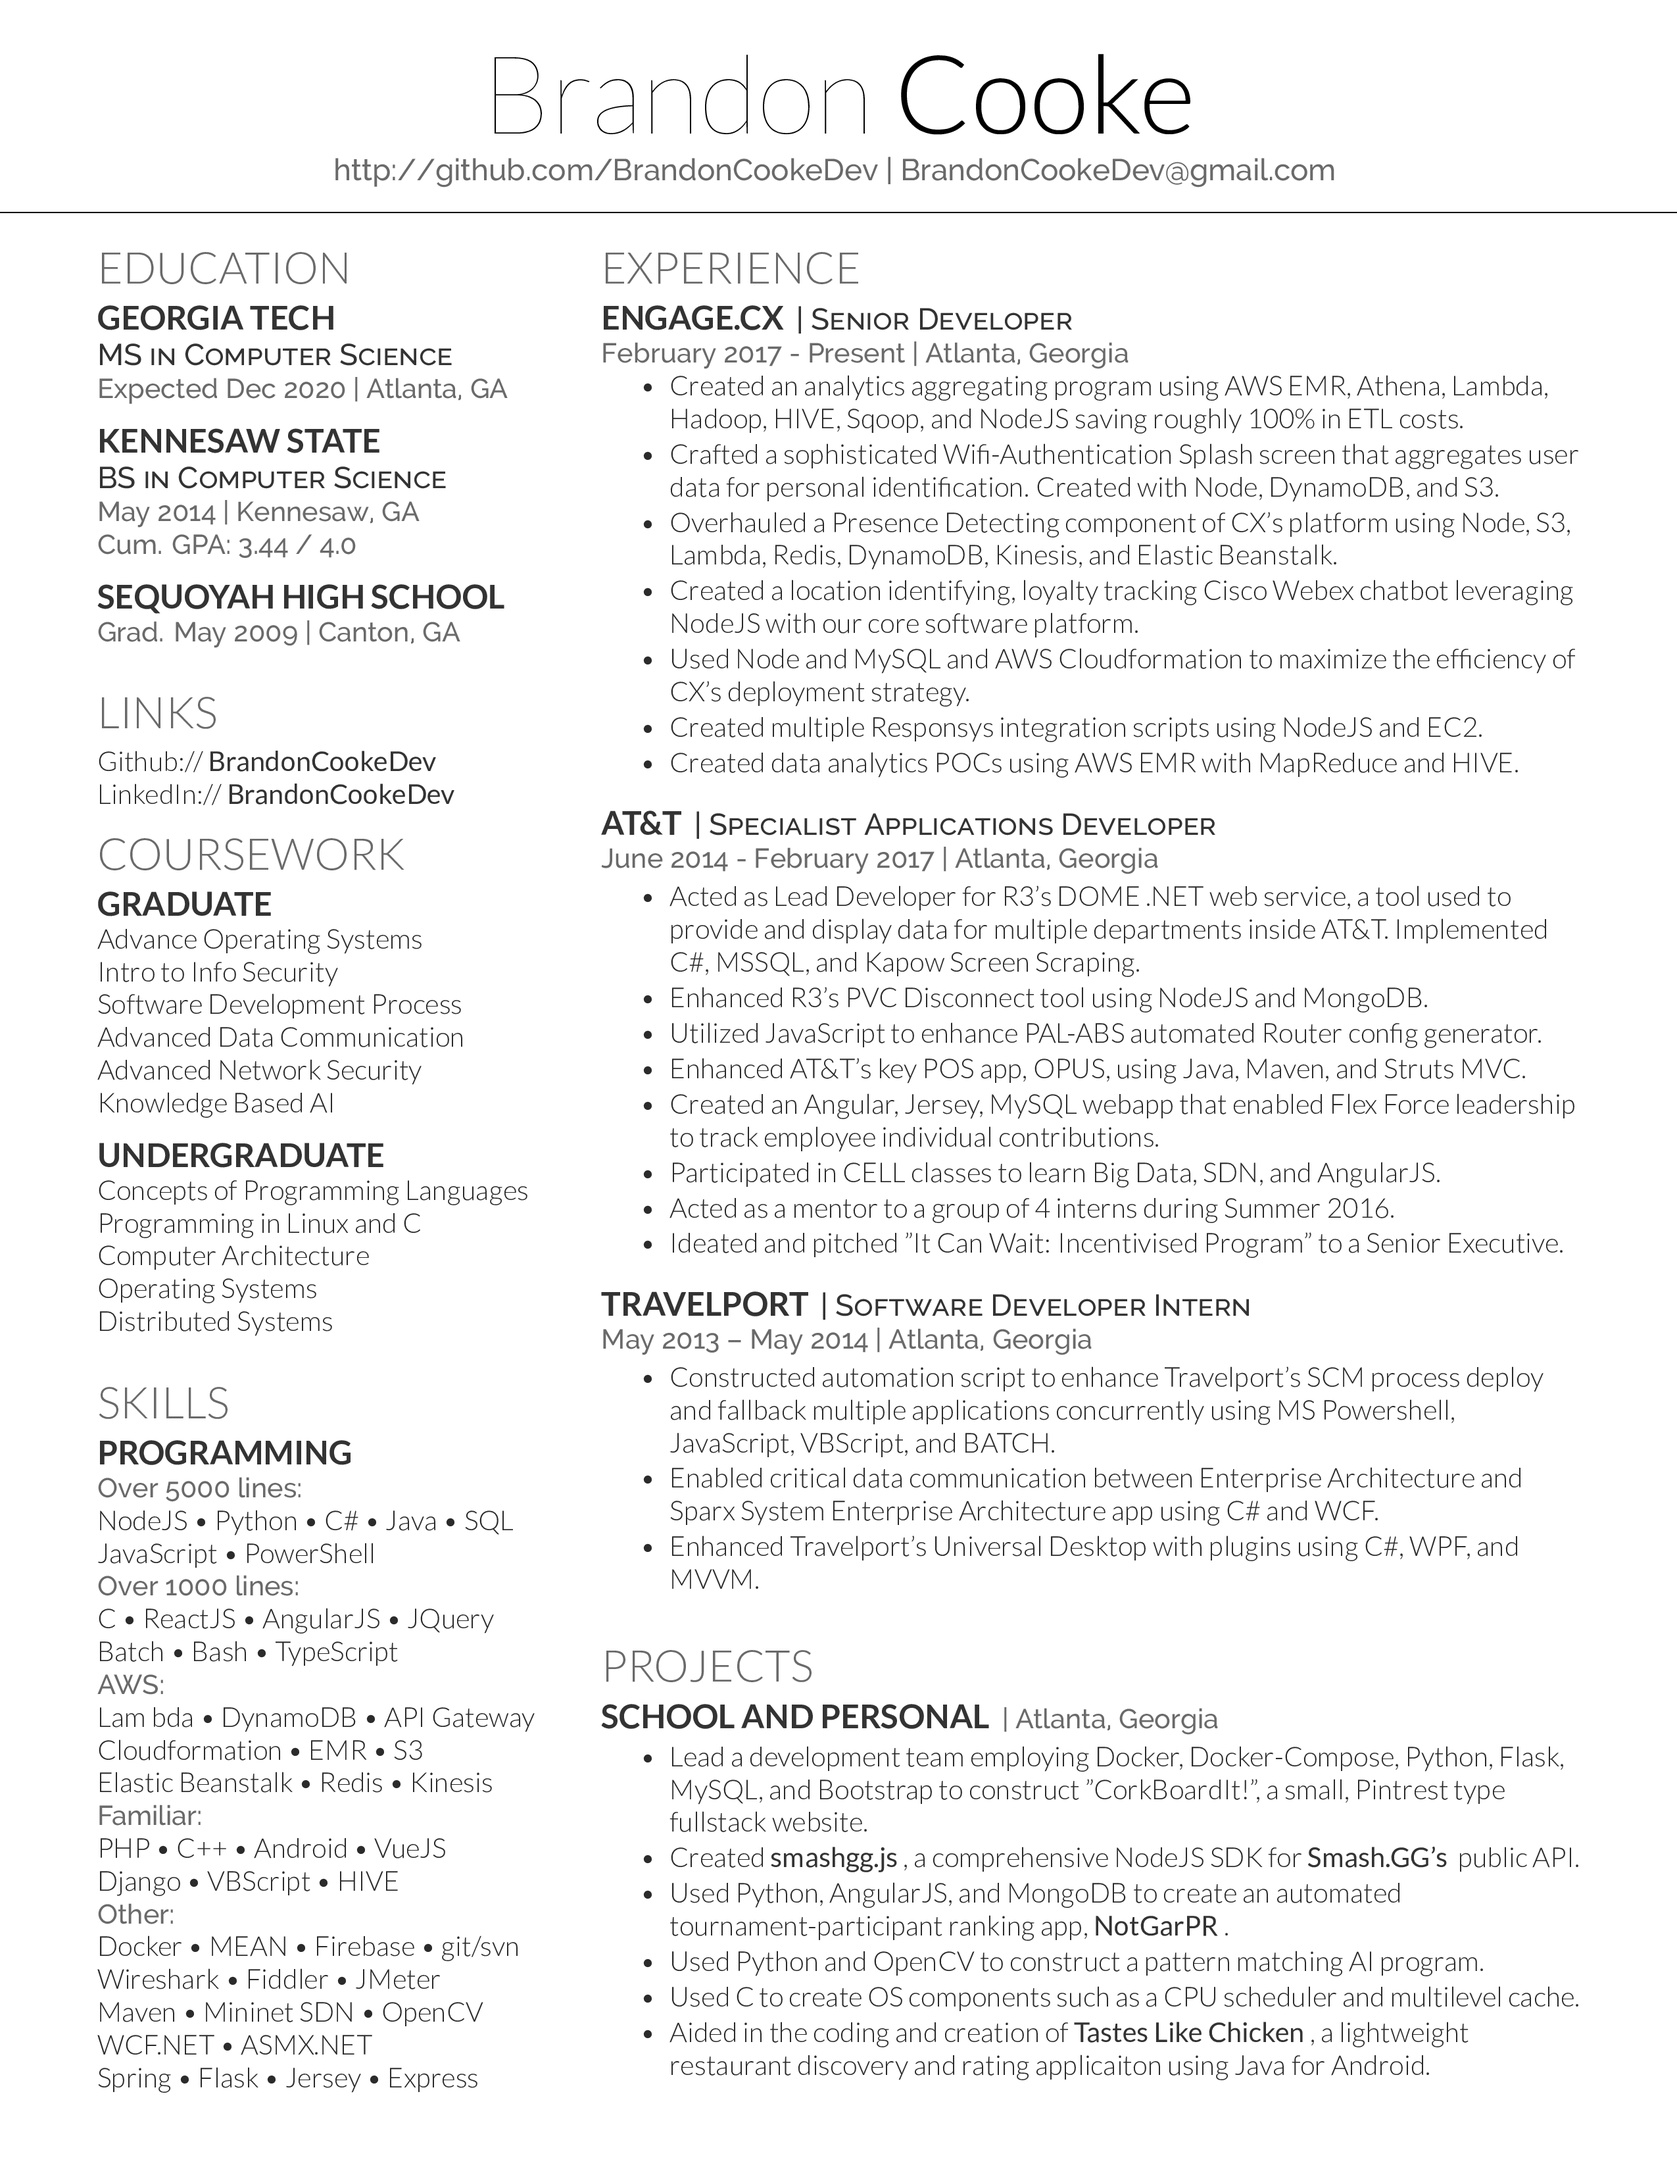
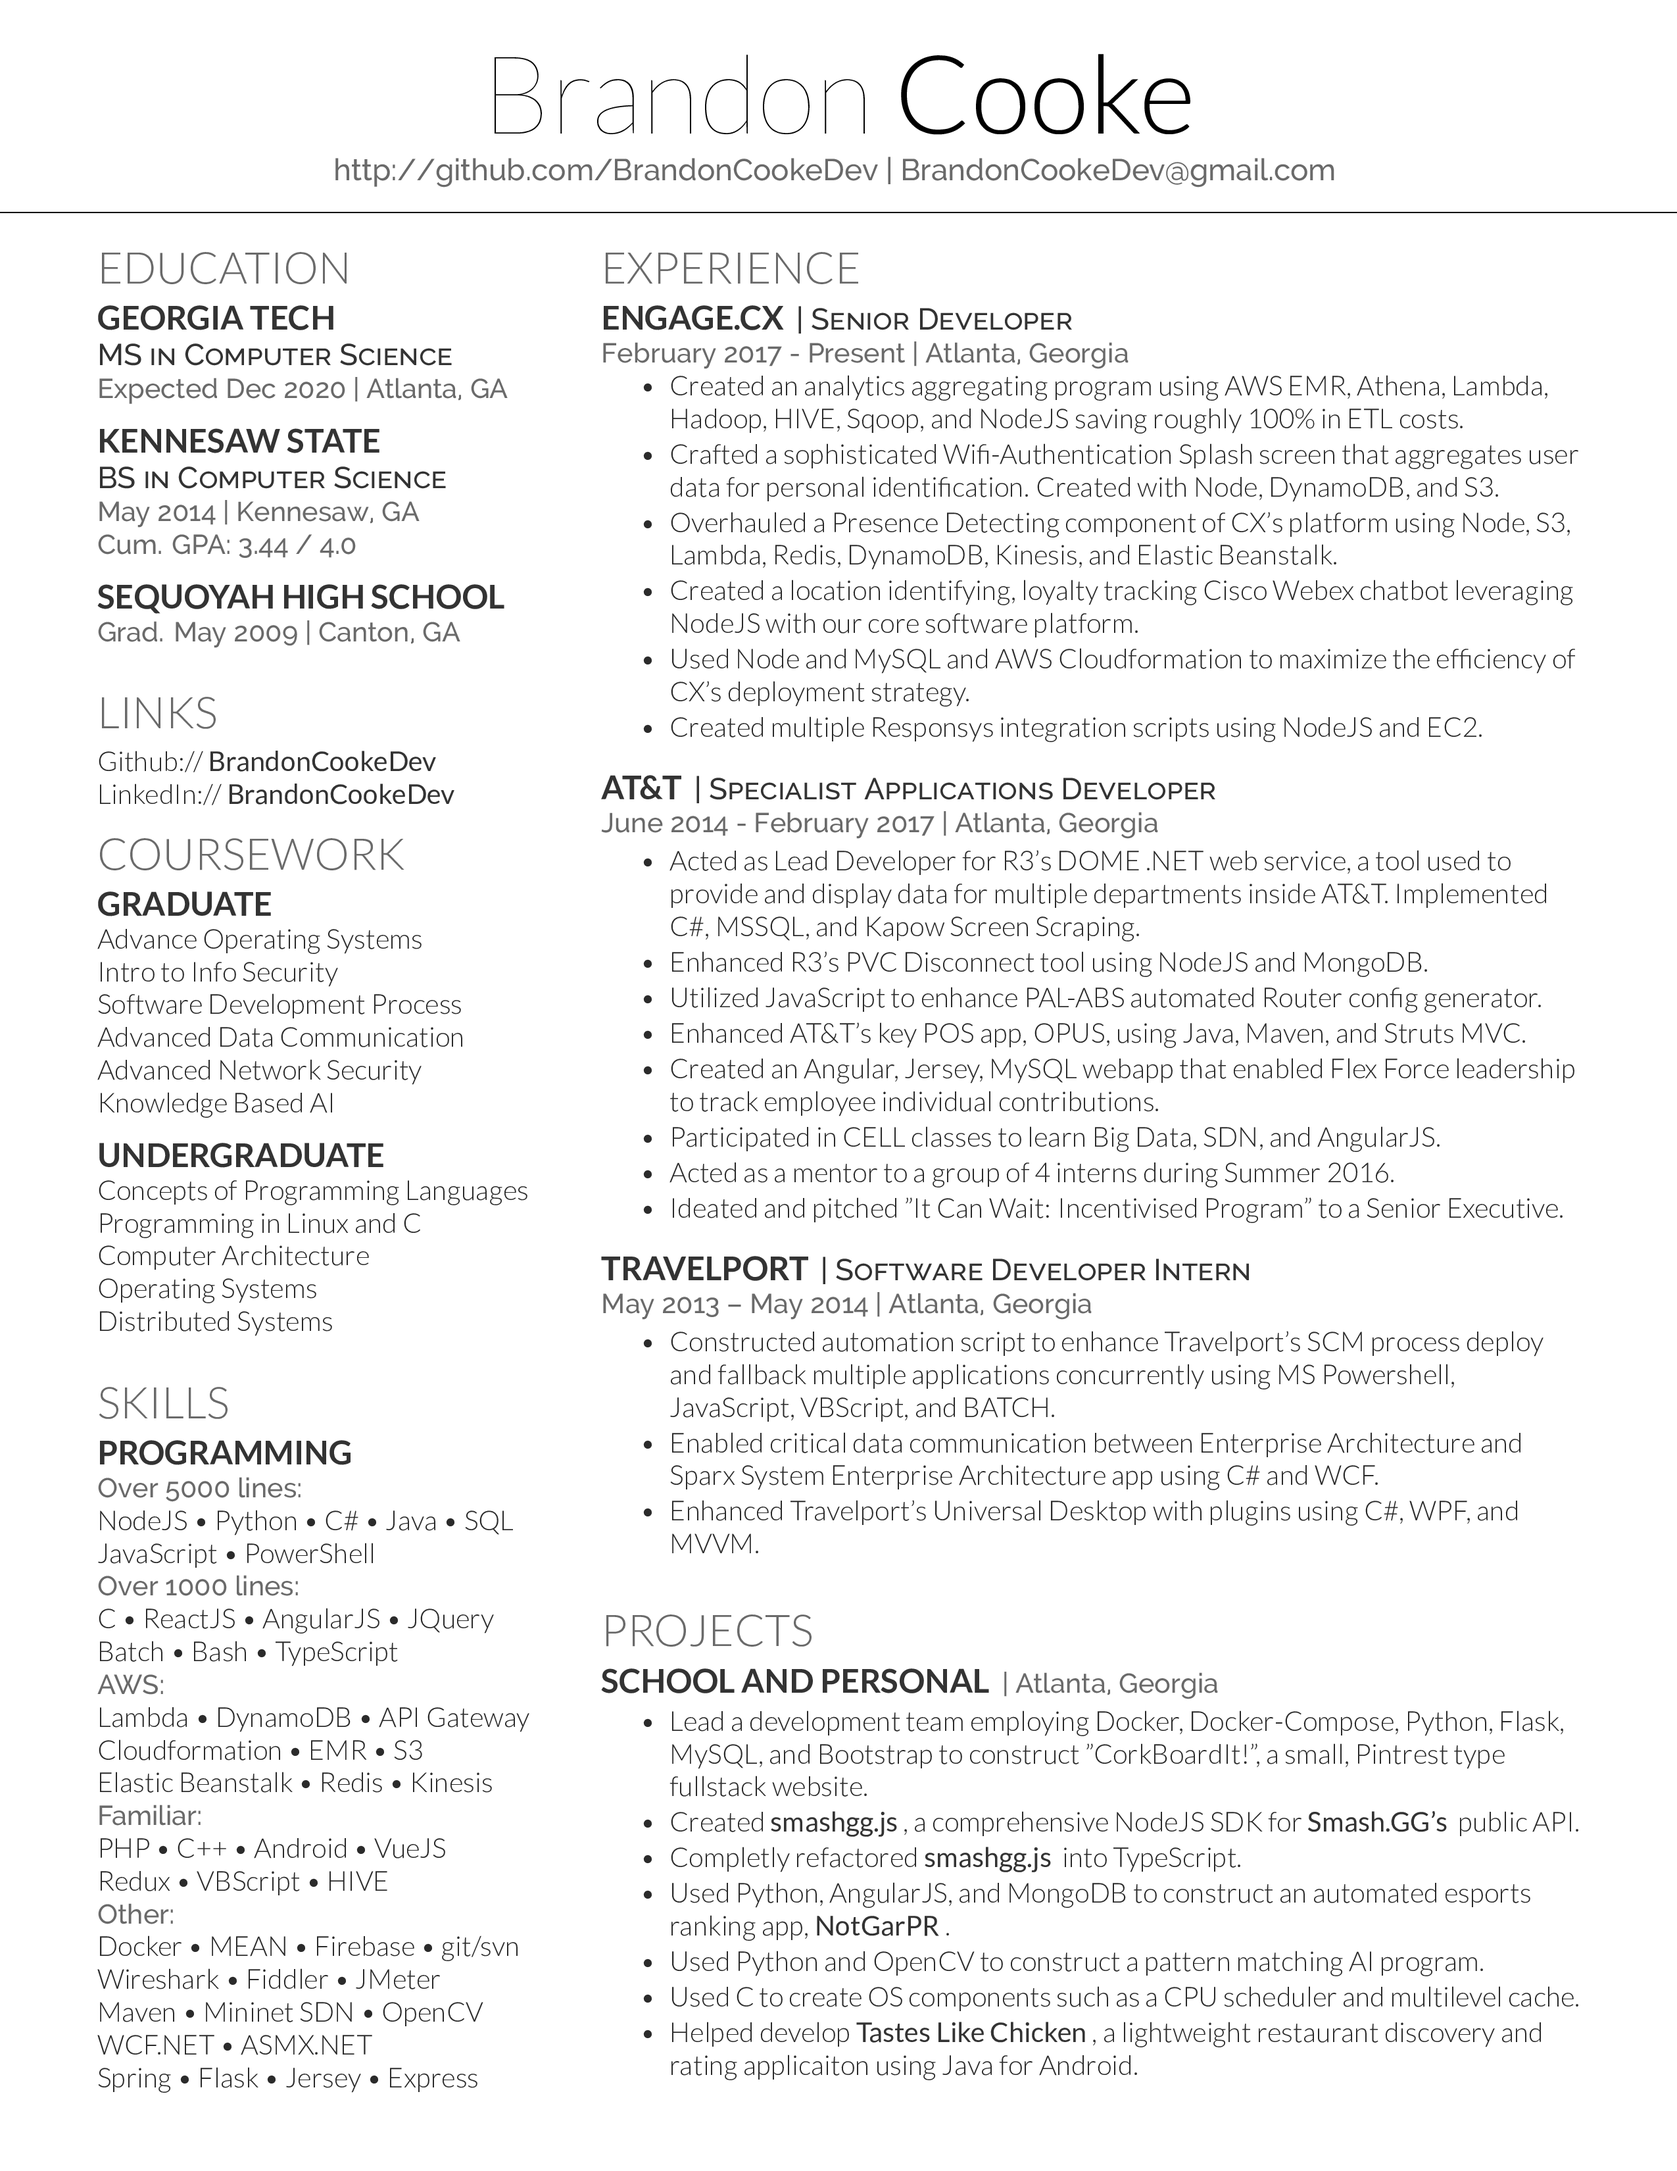
Fixed Lambda typo, added Redux, added TS refactor of Smashgg.js

diff --git a/deedy_resume-openfont.tex b/deedy_resume-openfont.tex
@@ -141,13 +141,13 @@ C \textbullet{} ReactJS \textbullet{} AngularJS \textbullet{} JQuery \\
 Batch \textbullet{} Bash \textbullet{} TypeScript \\
 
 \location{AWS: }
-Lam bda \textbullet{} DynamoDB \textbullet{} API Gateway  \\
+Lambda \textbullet{} DynamoDB \textbullet{} API Gateway  \\
 Cloudformation \textbullet{} EMR \textbullet{} S3 \\
 Elastic Beanstalk \textbullet{} Redis \textbullet{} Kinesis \\
 
 \location{Familiar:}
 PHP \textbullet{} C++ \textbullet{} Android \textbullet{} VueJS \\
-Django \textbullet{} VBScript \textbullet{} HIVE \\
+Redux \textbullet{} VBScript \textbullet{} HIVE \\
 \location{Other:}
 Docker \textbullet{} MEAN \textbullet{} Firebase \textbullet{} git/svn \\
 Wireshark \textbullet{} Fiddler \textbullet{} JMeter \\
@@ -184,7 +184,6 @@ Spring \textbullet{} Flask \textbullet{} Jersey \textbullet{} Express
 \item Created a location identifying, loyalty tracking Cisco Webex chatbot leveraging NodeJS with our core software platform.
 \item Used Node and MySQL and AWS Cloudformation to maximize the efficiency of CX's deployment strategy.
 \item Created multiple Responsys integration scripts using NodeJS and EC2.
-\item Created data analytics POCs using AWS EMR with MapReduce and HIVE.
 \end{tightemize}
 \sectionsep
 
@@ -223,10 +222,11 @@ Spring \textbullet{} Flask \textbullet{} Jersey \textbullet{} Express
 \begin{tightemize} 
 \item Lead a development team employing Docker, Docker-Compose, Python, Flask, MySQL, and Bootstrap to construct "CorkBoardIt!", a small, Pintrest type fullstack website. 
 \item Created \href{http://npmjs.com/package/smashgg.js}{\custombold{smashgg.js}}, a comprehensive NodeJS SDK for \href{www.smash.gg}{\custombold{Smash.GG's}} public API. 
-\item Used Python, AngularJS, and MongoDB to create an automated tournament-participant ranking app, \href{https://notgarpr.com}{\custombold{NotGarPR}}.
+\item Completly refactored {\custombold{smashgg.js}} into TypeScript.
+\item Used Python, AngularJS, and MongoDB to construct an automated esports ranking app, \href{https://notgarpr.com}{\custombold{NotGarPR}}.
 \item Used Python and OpenCV to construct a pattern matching AI program.
 \item Used C to create OS components such as a CPU scheduler and multilevel cache.
-\item Aided in the coding and creation of \href{https://play.google.com/store/apps/details?id=com.gmail.japa.arialdis.tasteslikechickenlite\&hl=en}{\custombold{Tastes Like Chicken}}, a lightweight restaurant discovery and rating applicaiton using Java for Android.
+\item Helped develop \href{https://play.google.com/store/apps/details?id=com.gmail.japa.arialdis.tasteslikechickenlite\&hl=en}{\custombold{Tastes Like Chicken}}, a lightweight restaurant discovery and rating applicaiton using Java for Android.
 \end{tightemize}
 \sectionsep
 
